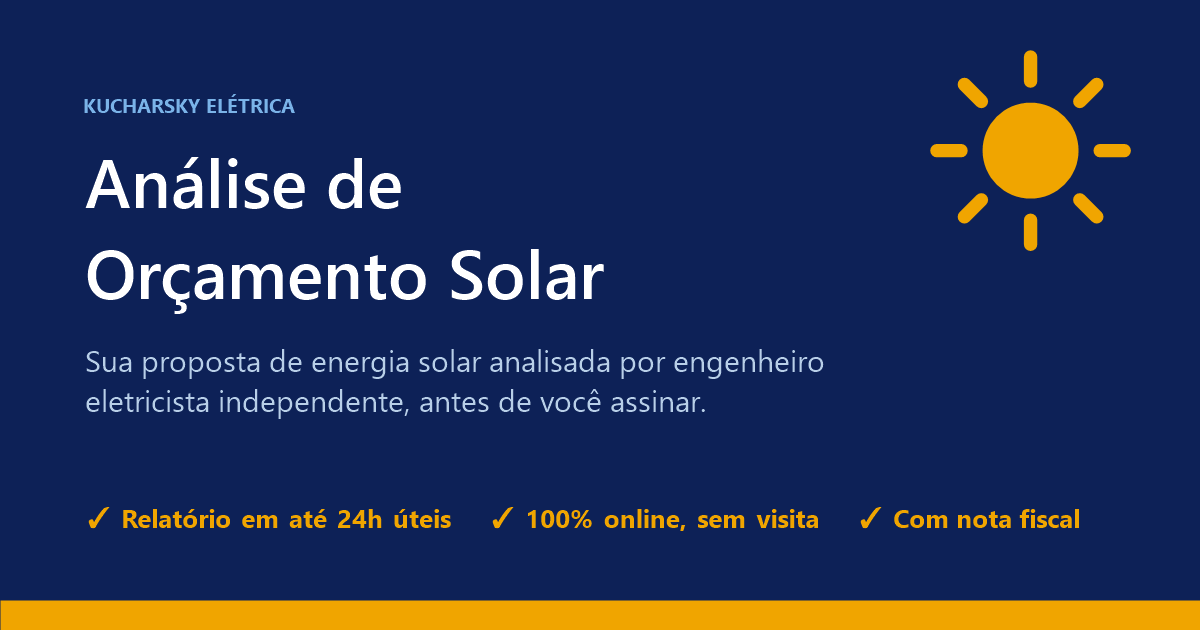
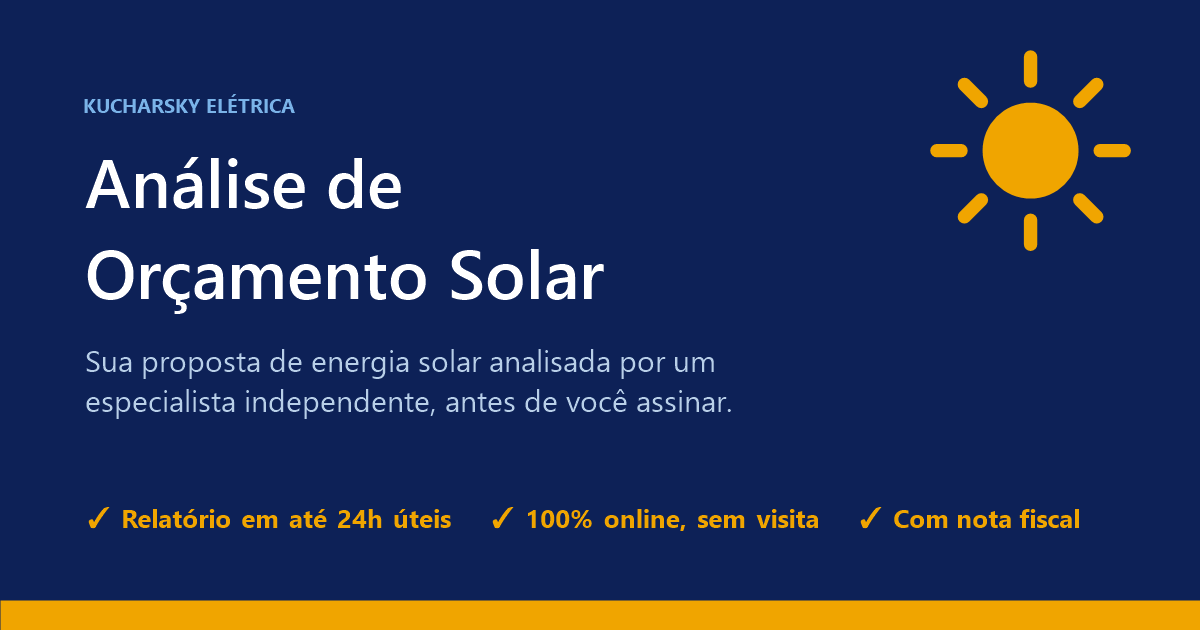
Ajusta títulos profissionais (técnico + graduação), região dos projetos e texto Sobre

Changed region(s): [[0.0925, 0.6032, 0.6167, 0.6635], [0.555, 0.5429, 0.6783, 0.6032]]

diff --git a/index.html b/index.html
@@ -3,8 +3,8 @@
 <head>
 <meta charset="UTF-8">
 <meta name="viewport" content="width=device-width, initial-scale=1.0">
-<title>Kucharsky Elétrica — Análises técnicas em engenharia elétrica</title>
-<meta name="description" content="Análise independente de orçamentos de energia solar para todo o Brasil e análise de projetos e instalações elétricas no norte de Santa Catarina. Engenheiro eletricista e técnico em eletroeletrônica, com emissão de TRT.">
+<title>Kucharsky Elétrica — Análises técnicas em energia solar e eletricidade</title>
+<meta name="description" content="Análise independente de orçamentos de energia solar e de projetos elétricos para todo o Brasil, e análise de instalações elétricas no norte de Santa Catarina. Técnico em eletroeletrônica graduado em Engenharia Elétrica, com emissão de TRT.">
 <link rel="canonical" href="https://kucharskyeletrica.com/">
 <meta name="theme-color" content="#0d2157">
 
@@ -17,12 +17,12 @@
 <meta property="og:locale" content="pt_BR">
 <meta property="og:site_name" content="Kucharsky Elétrica">
 <meta property="og:url" content="https://kucharskyeletrica.com/">
-<meta property="og:title" content="Kucharsky Elétrica — Análises técnicas em engenharia elétrica">
-<meta property="og:description" content="Análise de orçamentos de energia solar para todo o Brasil e análise de projetos e instalações elétricas no norte de SC. Com emissão de TRT.">
+<meta property="og:title" content="Kucharsky Elétrica — Análises técnicas em energia solar e eletricidade">
+<meta property="og:description" content="Análise de orçamentos de energia solar e de projetos elétricos para todo o Brasil, e de instalações elétricas no norte de SC. Com emissão de TRT.">
 <meta property="og:image" content="https://kucharskyeletrica.com/og-empresa.png">
 <meta property="og:image:width" content="1200">
 <meta property="og:image:height" content="630">
-<meta property="og:image:alt" content="Kucharsky Elétrica — Análises técnicas em engenharia elétrica">
+<meta property="og:image:alt" content="Kucharsky Elétrica — Análises técnicas em energia solar e eletricidade">
 <meta name="twitter:card" content="summary_large_image">
 
 <!-- Dados estruturados para o Google -->
@@ -37,12 +37,12 @@
   "image": "https://kucharskyeletrica.com/og-empresa.png",
   "telephone": "+55 47 99646-3350",
   "email": "gabriel@kucharskyeletrica.com",
-  "description": "Análise independente de orçamentos de energia solar para todo o Brasil e análise de projetos e instalações elétricas no norte de Santa Catarina.",
+  "description": "Análise independente de orçamentos de energia solar e de projetos elétricos para todo o Brasil, e análise de instalações elétricas no norte de Santa Catarina.",
   "areaServed": ["BR", "Norte de Santa Catarina"],
   "founder": {
     "@type": "Person",
     "name": "Gabriel Kucharsky",
-    "jobTitle": "Engenheiro eletricista e técnico em eletroeletrônica"
+    "jobTitle": "Técnico em eletroeletrônica, graduado em Engenharia Elétrica"
   },
   "hasOfferCatalog": {
     "@type": "OfferCatalog",
@@ -183,7 +183,7 @@
   <div class="hero-inner">
     <div class="eyebrow">Kucharsky Elétrica</div>
     <h1>Análise técnica independente para decisões seguras em energia e eletricidade.</h1>
-    <p>Análise de orçamentos de energia solar para todo o Brasil e análise de projetos e instalações elétricas no norte de Santa Catarina, com emissão de TRT.</p>
+    <p>Análise de orçamentos de energia solar e de projetos elétricos para todo o Brasil, e análise de instalações elétricas no norte de Santa Catarina, com emissão de TRT.</p>
     <div class="hero-actions">
       <a href="#servicos" class="btn btn-gold">Conheça os serviços</a>
       <a href="https://wa.me/5547996463350?text=Ol%C3%A1!%20Vim%20pelo%20site%20da%20Kucharsky%20El%C3%A9trica." class="btn btn-ghost">Falar no WhatsApp</a>
@@ -216,7 +216,7 @@
 
       <div class="service">
         <div class="service-icon">📐</div>
-        <div class="tags"><span class="tag tag-online">Análise documental</span></div>
+        <div class="tags"><span class="tag tag-online">Análise documental</span><span class="tag tag-online">Todo o Brasil</span></div>
         <h3>Análise de projetos elétricos</h3>
         <p>Revisão técnica de projetos elétricos antes da execução, para identificar inconsistências e pontos de atenção.</p>
         <ul>
@@ -254,12 +254,12 @@
     <div>
       <div class="section-label">Quem faz a análise</div>
       <h2>Gabriel Kucharsky</h2>
-      <div class="role">Engenheiro eletricista e técnico em eletroeletrônica</div>
-      <p>A Kucharsky Elétrica nasceu para oferecer o que muitas vezes falta no mercado: uma opinião técnica isenta. Não vendemos equipamentos nem recebemos comissão de fornecedores. Nosso trabalho é analisar com cuidado e explicar de forma clara.</p>
-      <p>Cada análise é conduzida pessoalmente, com base técnica e conhecimento do mercado, para que você tome sua decisão com segurança.</p>
+      <div class="role">Técnico em Eletroeletrônica · Graduado em Engenharia Elétrica</div>
+      <p>Sou técnico em eletroeletrônica, formado pelo Instituto Federal, e graduado em Engenharia Elétrica. Atuo profissionalmente no setor de energia solar, na área de engenharia, em Joinville (SC) — por isso conheço de perto como propostas fotovoltaicas são dimensionadas, montadas e precificadas.</p>
+      <p>A Kucharsky Elétrica nasceu para colocar essa experiência a serviço de quem está do outro lado da mesa: o cliente que precisa de uma opinião técnica clara antes de investir. Cada análise é feita pessoalmente por mim, com emissão de TRT e explicação em linguagem simples.</p>
       <div class="creds">
-        <span class="cred">Engenharia Elétrica</span>
-        <span class="cred">Técnico em Eletroeletrônica</span>
+        <span class="cred">Graduação em Engenharia Elétrica</span>
+        <span class="cred">Técnico em Eletroeletrônica — Instituto Federal</span>
         <span class="cred">Emissão de TRT</span>
       </div>
     </div>
@@ -311,7 +311,7 @@
 <!-- RODAPÉ -->
 <footer>
   <p>Kucharsky Elétrica Ltda — CNPJ 66.766.392/0001-02<br>
-  Análise de orçamentos de energia solar para todo o Brasil · Análise de instalações elétricas no norte de Santa Catarina</p>
+  Análise de orçamentos de energia solar e de projetos elétricos para todo o Brasil · Análise de instalações elétricas no norte de Santa Catarina</p>
 </footer>
 
 <!-- BOTÃO FLUTUANTE WHATSAPP -->

diff --git a/analise-solar/index.html b/analise-solar/index.html
@@ -18,7 +18,7 @@
 <meta property="og:site_name" content="Kucharsky Elétrica">
 <meta property="og:url" content="https://kucharskyeletrica.com/analise-solar">
 <meta property="og:title" content="Análise de Orçamento Solar — Kucharsky Elétrica">
-<meta property="og:description" content="Recebeu uma proposta de energia solar? Um engenheiro eletricista independente analisa o orçamento antes de você assinar. 100% online, relatório em até 24h úteis.">
+<meta property="og:description" content="Recebeu uma proposta de energia solar? Um especialista independente analisa o orçamento antes de você assinar. 100% online, relatório em até 24h úteis.">
 <meta property="og:image" content="https://kucharskyeletrica.com/og-image.png">
 <meta property="og:image:width" content="1200">
 <meta property="og:image:height" content="630">
@@ -156,7 +156,7 @@
 <section class="hero">
   <div class="hero-eyebrow">Kucharsky Elétrica — Análise de Orçamento Solar</div>
   <h1>Antes de assinar o contrato de energia solar, certifique-se de que o orçamento está correto.</h1>
-  <p>Análise técnica e mercadológica independente da proposta que você recebeu, realizada por engenheiro eletricista. Sem vínculo com fornecedores. Sem conflito de interesse.</p>
+  <p>Análise técnica e mercadológica independente da proposta que você recebeu, realizada por técnico em eletroeletrônica graduado em Engenharia Elétrica. Sem vínculo com fornecedores. Sem conflito de interesse.</p>
   <a href="https://wa.me/5547996463350?text=Ol%C3%A1!%20Gostaria%20de%20enviar%20uma%20proposta%20de%20energia%20solar%20para%20an%C3%A1lise." class="btn-cta">Enviar orçamento para análise →</a>
   <div class="badge-strip">
     <span class="badge">Relatório entregue em até 24h úteis</span>
@@ -269,8 +269,8 @@
     <div class="why-item">
       <div class="why-icon">⚡</div>
       <div>
-        <h3>Engenheiro eletricista e técnico em eletroeletrônica</h3>
-        <p>Análise conduzida por Gabriel Kucharsky, engenheiro eletricista e técnico em eletroeletrônica, com emissão de TRT.</p>
+        <h3>Formação técnica e em engenharia</h3>
+        <p>Análise conduzida por Gabriel Kucharsky, técnico em eletroeletrônica graduado em Engenharia Elétrica, com emissão de TRT.</p>
       </div>
     </div>
     <div class="why-item">
